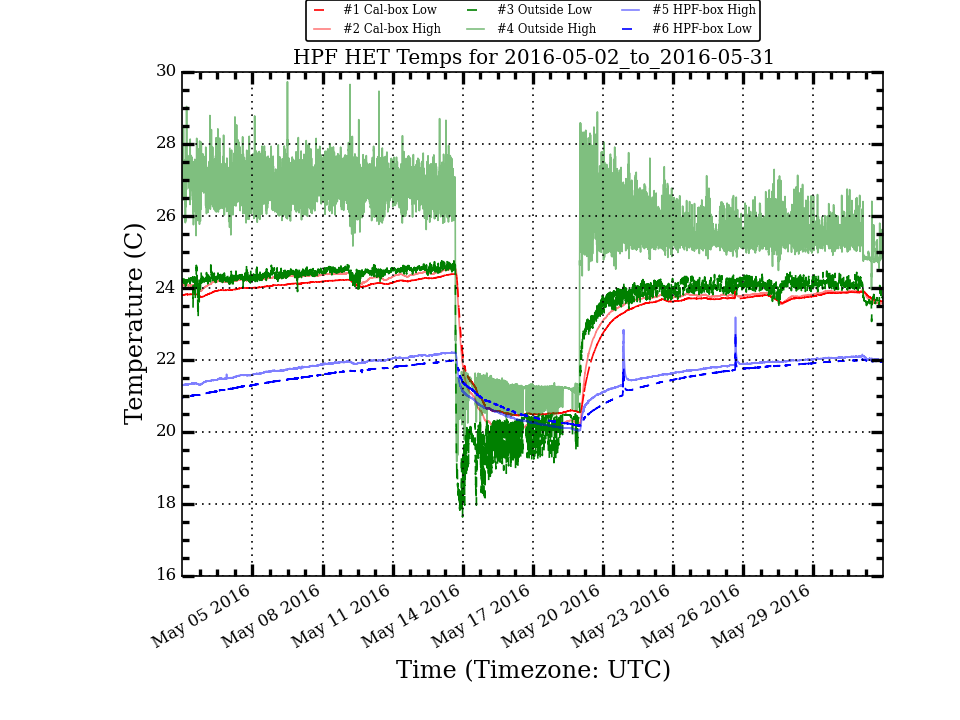
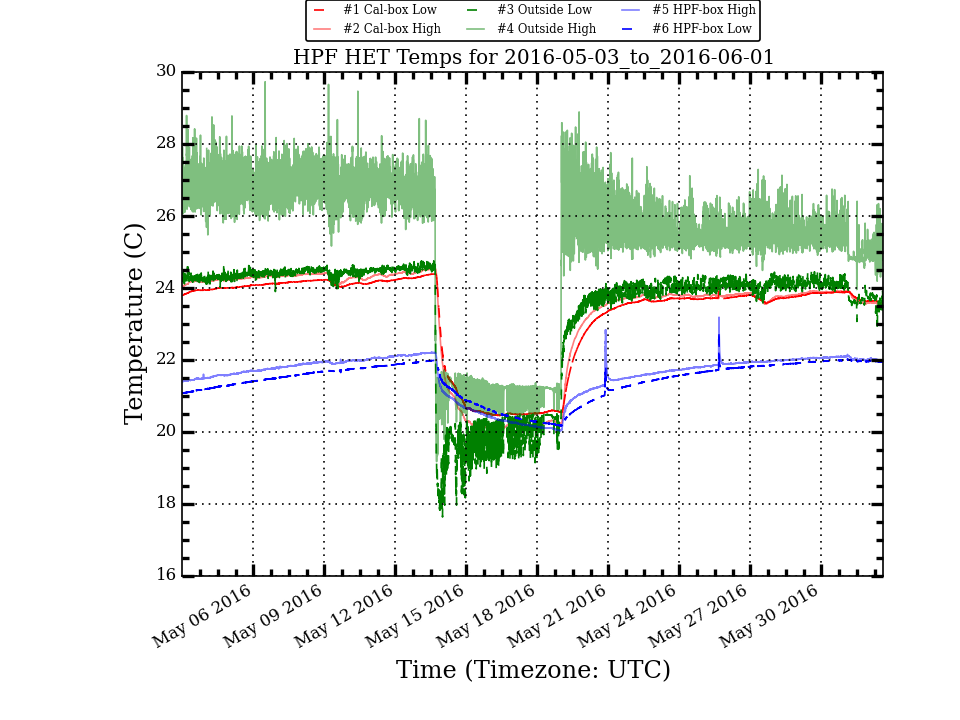
Update HPF Temp Plots

diff --git a/research/hpf_temps/plots/LakeShoreLogTotal_week_stats.html b/research/hpf_temps/plots/LakeShoreLogTotal_week_stats.html
@@ -10,56 +10,56 @@
  </TR>
  <TR>
   <TD>Cal_Low</TD>
-  <TD>23.762</TD>
-  <TD>0.080</TD>
-  <TD>23.752</TD>
+  <TD>23.756</TD>
+  <TD>0.091</TD>
+  <TD>23.759</TD>
   <TD>23.901</TD>
-  <TD>23.586</TD>
-  <TD>0.315</TD>
+  <TD>23.572</TD>
+  <TD>0.329</TD>
  </TR>
  <TR>
   <TD>Cal_High</TD>
-  <TD>23.796</TD>
-  <TD>0.097</TD>
-  <TD>23.809</TD>
-  <TD>24.076</TD>
-  <TD>23.549</TD>
-  <TD>0.527</TD>
+  <TD>23.775</TD>
+  <TD>0.120</TD>
+  <TD>23.810</TD>
+  <TD>23.955</TD>
+  <TD>23.506</TD>
+  <TD>0.449</TD>
  </TR>
  <TR>
   <TD>Out_Low</TD>
-  <TD>24.034</TD>
-  <TD>0.187</TD>
-  <TD>24.066</TD>
+  <TD>23.991</TD>
+  <TD>0.225</TD>
+  <TD>24.050</TD>
   <TD>24.472</TD>
-  <TD>23.071</TD>
-  <TD>1.401</TD>
+  <TD>22.831</TD>
+  <TD>1.641</TD>
  </TR>
  <TR>
   <TD>Out_High</TD>
-  <TD>25.393</TD>
-  <TD>0.343</TD>
-  <TD>25.380</TD>
+  <TD>25.337</TD>
+  <TD>0.370</TD>
+  <TD>25.348</TD>
   <TD>27.293</TD>
   <TD>23.956</TD>
   <TD>3.337</TD>
  </TR>
  <TR>
   <TD>HPF_High</TD>
-  <TD>21.990</TD>
-  <TD>0.092</TD>
-  <TD>22.000</TD>
-  <TD>23.188</TD>
-  <TD>21.804</TD>
-  <TD>1.384</TD>
+  <TD>22.006</TD>
+  <TD>0.057</TD>
+  <TD>22.010</TD>
+  <TD>22.155</TD>
+  <TD>21.885</TD>
+  <TD>0.270</TD>
  </TR>
  <TR>
   <TD>HPF_Low</TD>
-  <TD>21.877</TD>
-  <TD>0.097</TD>
-  <TD>21.890</TD>
-  <TD>22.818</TD>
-  <TD>21.663</TD>
-  <TD>1.155</TD>
+  <TD>21.906</TD>
+  <TD>0.072</TD>
+  <TD>21.928</TD>
+  <TD>22.029</TD>
+  <TD>21.756</TD>
+  <TD>0.273</TD>
  </TR>
 </TABLE>

diff --git a/research/hpf_temps/plots/LakeShoreLogTotal_month_stats.html b/research/hpf_temps/plots/LakeShoreLogTotal_month_stats.html
@@ -10,54 +10,54 @@
  </TR>
  <TR>
   <TD>Cal_Low</TD>
-  <TD>23.270</TD>
-  <TD>1.258</TD>
-  <TD>23.760</TD>
+  <TD>23.260</TD>
+  <TD>1.263</TD>
+  <TD>23.735</TD>
   <TD>24.396</TD>
   <TD>20.460</TD>
   <TD>3.936</TD>
  </TR>
  <TR>
   <TD>Cal_High</TD>
-  <TD>23.329</TD>
-  <TD>1.424</TD>
-  <TD>23.821</TD>
+  <TD>23.310</TD>
+  <TD>1.427</TD>
+  <TD>23.809</TD>
   <TD>24.532</TD>
   <TD>20.090</TD>
   <TD>4.442</TD>
  </TR>
  <TR>
   <TD>Out_Low</TD>
-  <TD>23.396</TD>
-  <TD>1.668</TD>
-  <TD>24.108</TD>
+  <TD>23.375</TD>
+  <TD>1.672</TD>
+  <TD>24.084</TD>
   <TD>24.796</TD>
   <TD>17.638</TD>
   <TD>7.158</TD>
  </TR>
  <TR>
   <TD>Out_High</TD>
-  <TD>25.287</TD>
-  <TD>2.081</TD>
-  <TD>25.728</TD>
+  <TD>25.220</TD>
+  <TD>2.068</TD>
+  <TD>25.630</TD>
   <TD>29.728</TD>
   <TD>19.178</TD>
   <TD>10.550</TD>
  </TR>
  <TR>
   <TD>HPF_High</TD>
-  <TD>21.542</TD>
-  <TD>0.598</TD>
-  <TD>21.752</TD>
+  <TD>21.558</TD>
+  <TD>0.605</TD>
+  <TD>21.789</TD>
   <TD>23.188</TD>
   <TD>20.039</TD>
   <TD>3.149</TD>
  </TR>
  <TR>
   <TD>HPF_Low</TD>
-  <TD>21.393</TD>
-  <TD>0.513</TD>
-  <TD>21.530</TD>
+  <TD>21.418</TD>
+  <TD>0.517</TD>
+  <TD>21.567</TD>
   <TD>22.818</TD>
   <TD>20.173</TD>
   <TD>2.645</TD>
